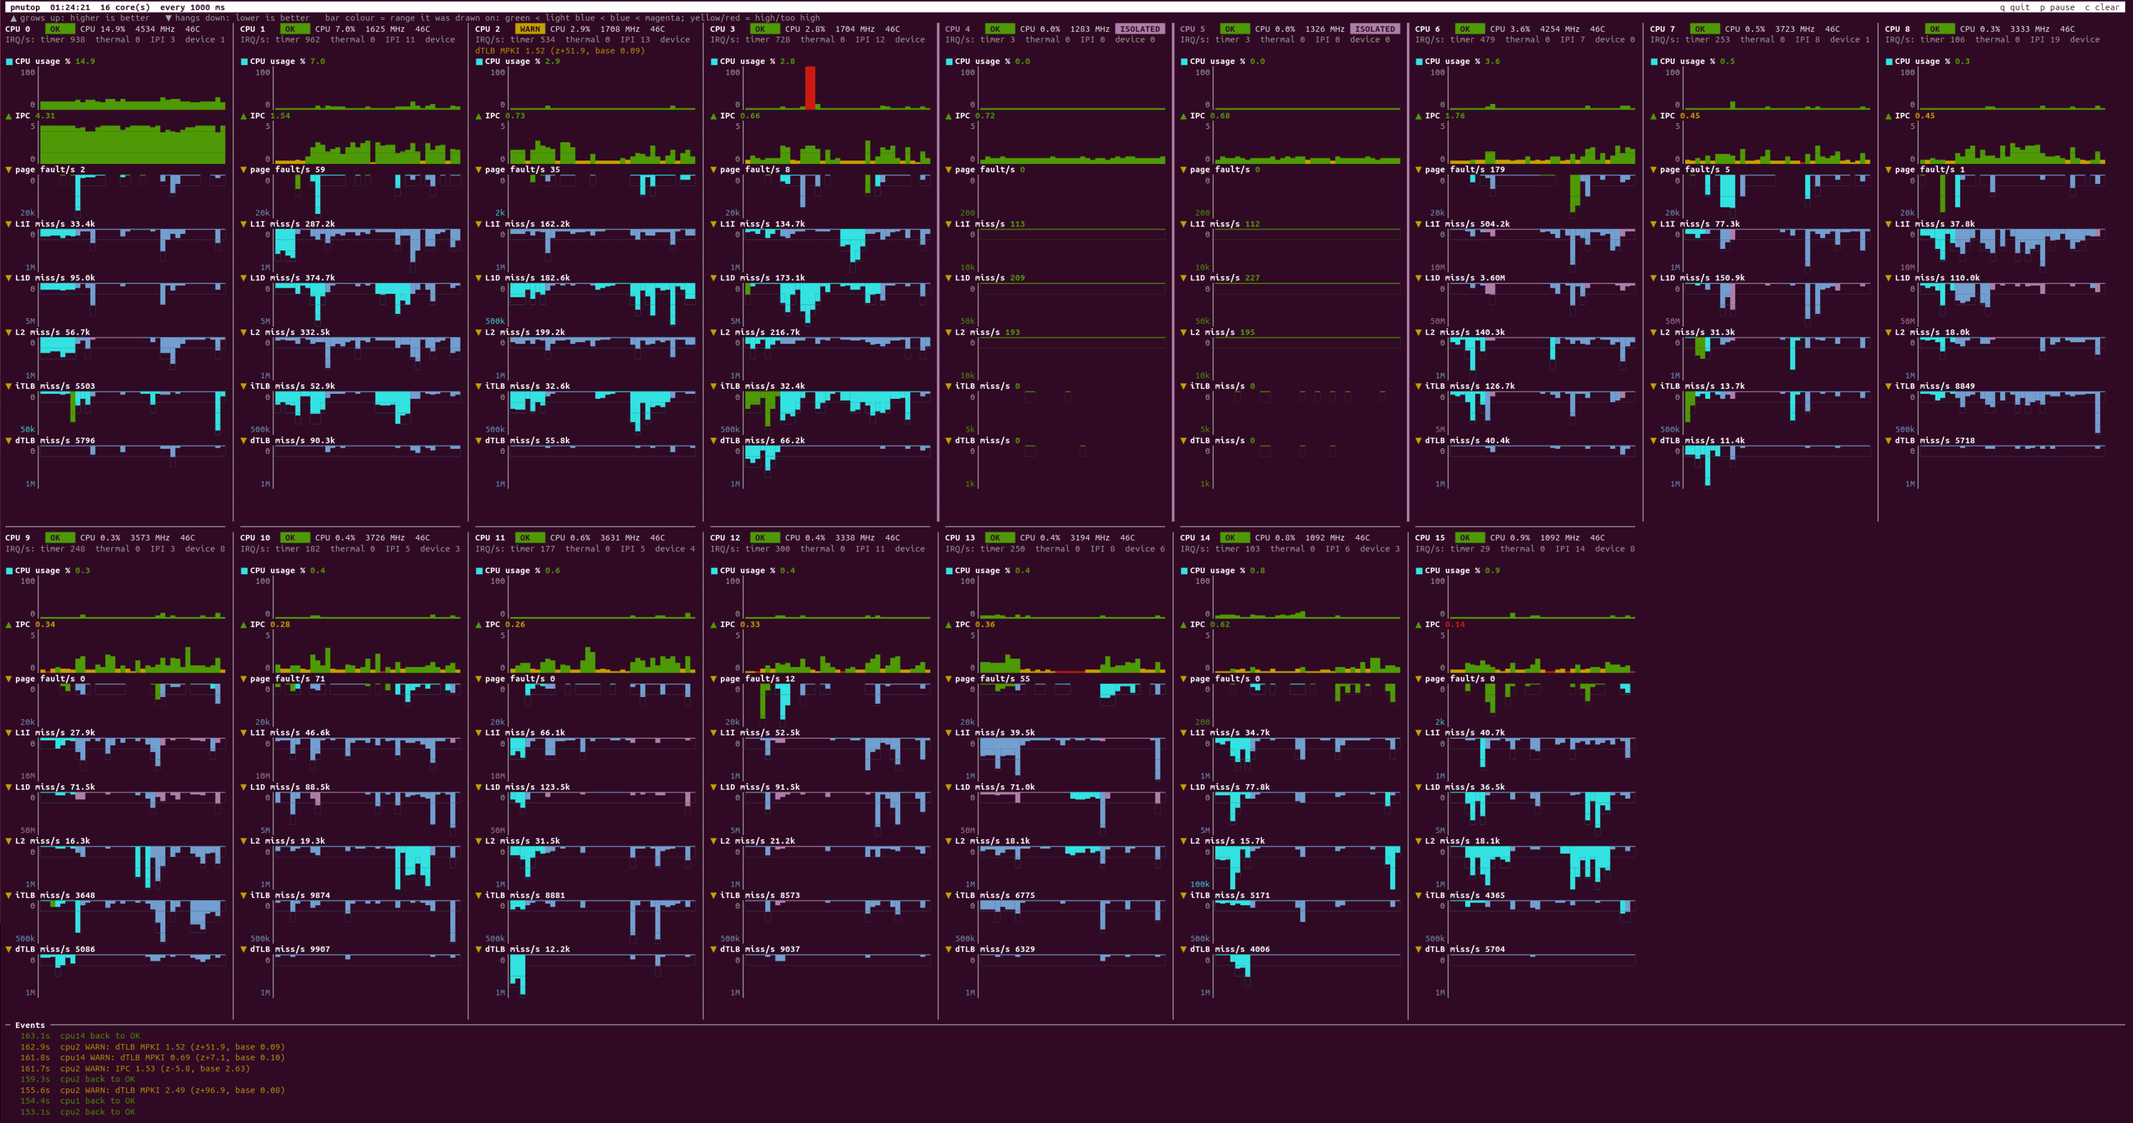
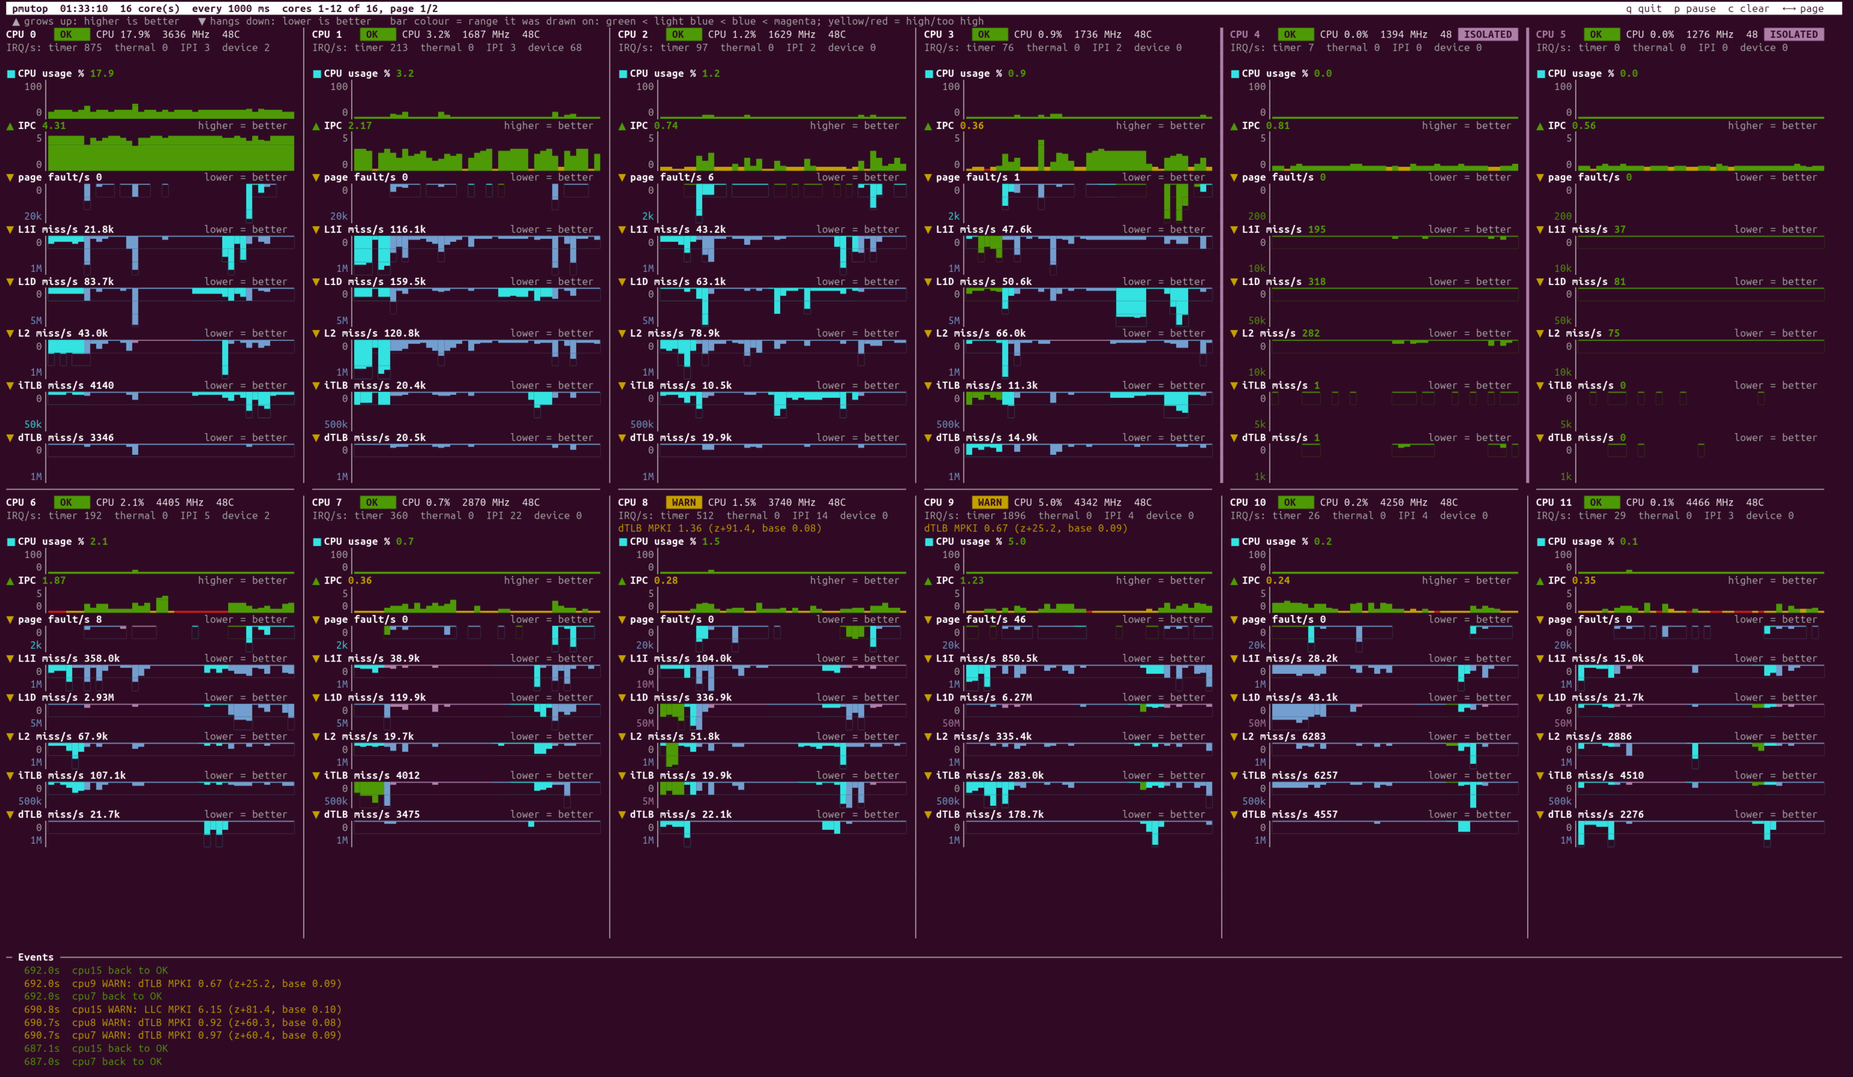
README: update screenshot

diff --git a/README.md b/README.md
@@ -16,7 +16,7 @@ Cores isolated from the Linux scheduler (`isolcpus`), as used for real-time work
 
 ![pmutop on a 16-core Intel Core Ultra 9 285H](docs/pmutop-screenshot.png)
 
-*`pmutop` with no options on a 16-core Intel Core Ultra 9 285H: every core, every chart. CPU 4 and 5 are isolated real-time cores (magenta `ISOLATED` tag and dividers). The event log at the bottom shows warnings raised on CPU 2 and CPU 14.*
+*`pmutop` with no options on a 16-core Intel Core Ultra 9 285H: every chart, cores 0-11 on page 1 of 2 (←/→ to switch). CPU 4 and 5 are isolated real-time cores (magenta `ISOLATED` tag and dividers). CPU 8 and 9 are in WARN for a jump in dTLB misses per 1000 instructions; the event log at the bottom lists the state changes.*
 
 ## Contents
 
